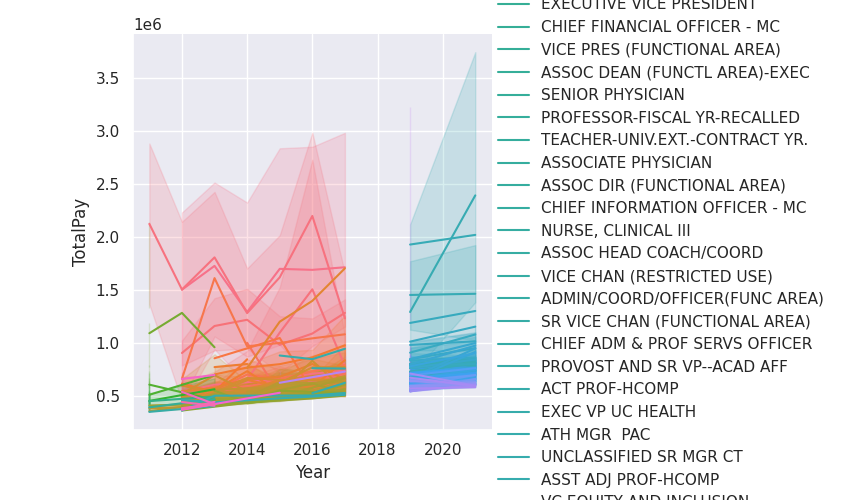
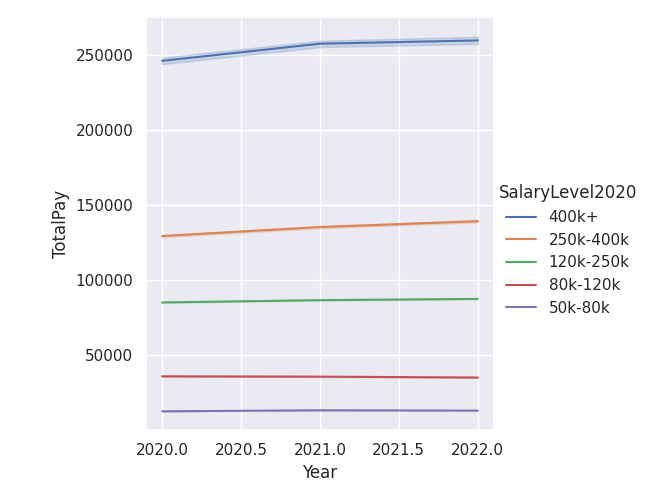
updated to plot per salary levels

diff --git a/employement/ucla-salary/run.py b/employement/ucla-salary/run.py
@@ -17,7 +17,6 @@ if not os.path.exists(fname):
     csv_file_list = [str(x) for x in Path(".").rglob("*.csv")]
     for csv_file in csv_file_list:
         item = pd.read_csv(csv_file)
-        item = item.iloc[:1000,:]
         df_list.append(item)
     df = pd.concat(df_list)
     columns = ["Base Pay","Overtime Pay","Other Pay","Benefits","Total Pay","Pension Debt","Total Pay & Benefits"]
@@ -27,21 +26,43 @@ if not os.path.exists(fname):
 
 sns.set_theme(style="darkgrid")
 df = pd.read_parquet(fname)
+print(df.shape)
 
-df["JobTitle"] = df["Job Title"].apply(lambda x: ''.join([i for i in x if not i.isdigit()]) )
 df.Year = df.Year.apply(lambda x: int(x))
 df["TotalPay"] = df["Total Pay & Benefits"].apply(lambda x: int(x))
+# remove level from job title.
+df["JobTitle"] = df["Job Title"].apply(lambda x: ''.join([i for i in x if not i.isdigit()]) )
+df["JobTitle"] = df["Job Title"].apply(lambda x: x.replace(' ',''))
+
+# weed out part time rolls via removing total comp to be less than 60k
+df['StartingSalaryLevel'] = None
+min_year = df.Year.min()
+baseline_df = df[df.Year == min_year]
+salary_range = {
+    '50k-80k':(50000,80000),
+    '80k-120k':(80000,120000),
+    '120k-250k':(120000,250000),
+    '250k-400k':(250000,400000),
+    '400k+':(400000,5000000),
+}
+
+print(baseline_df.TotalPay.min(),baseline_df.TotalPay.max())
+
+for salary_level,range_min_max in salary_range.items():
+    min_val,max_val = range_min_max
+    jobdf = baseline_df[(baseline_df.TotalPay>min_val)&(baseline_df.TotalPay<max_val)]
+    for x in jobdf.JobTitle.unique():
+        df.loc[df.JobTitle==x,"StartingSalaryLevel"]=salary_level
+        
+    print(salary_level,jobdf.TotalPay.median(),len(jobdf))
+
 sns.set(rc={'figure.figsize':(20,20)})
-#sns.lineplot(data=df, x="Year", y="TotalPay", hue="JobTitle")
 sns.relplot(
     data=df,
     x="Year",
     y="TotalPay",
-    hue="JobTitle",
+    hue="StartingSalaryLevel",
     kind="line",
     facet_kws={"legend_out": True}
 )
 plt.savefig('time-salary.png')
-
-# plt.legend(bbox_to_anchor=(1.05, 1), loc=2, borderaxespad=0.3)
-# plt.savefig('time-salary.png')
